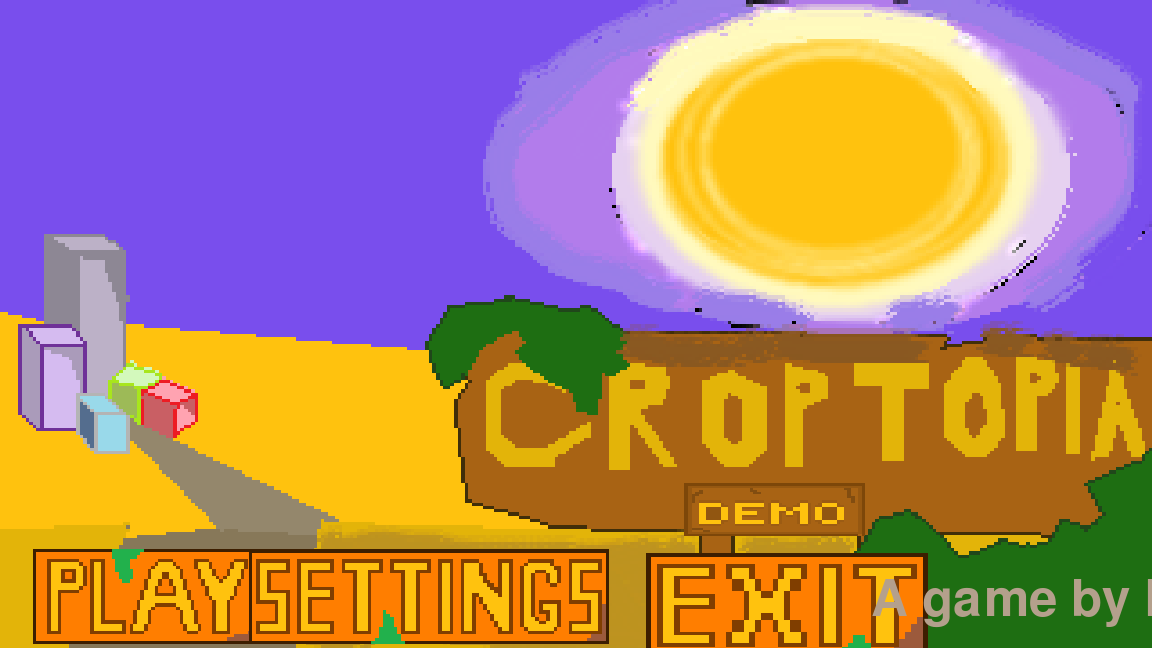
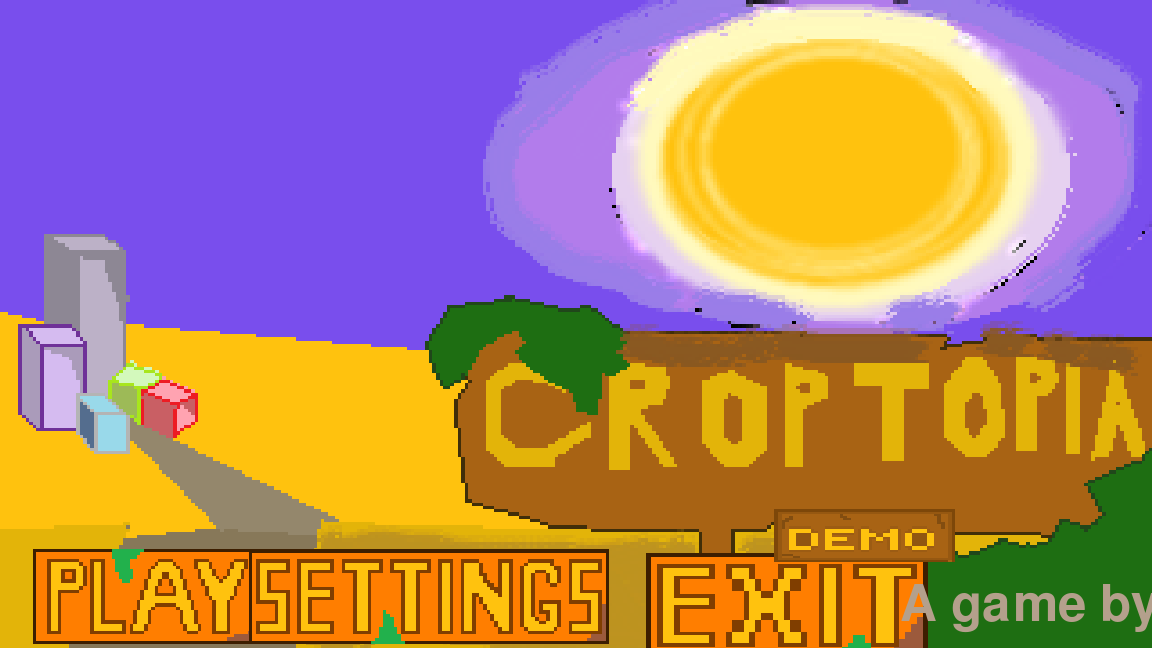
Adjust demo sprite and label positioning - use topleft anchor for sprite, move label to lower right

Changed region(s): [[0.5938, 0.7407, 1.0, 0.9877]]

diff --git a/croptopia_python/croptopia/scenes/main_menu_scene.py b/croptopia_python/croptopia/scenes/main_menu_scene.py
@@ -74,10 +74,12 @@ class MainMenuScene(Scene):
         
         # Text elements (positions derived from main.tscn, then rendered simply)
         self.label_text = "A game by DoubO"
-        self.label_pos = self._world_to_screen((506, 459))
         self.label_font_size = max(12, int(26 * 5.30584 * self.camera_zoom.y))
+        self.label_pos = (900, 580)  # Lower right area, away from buttons
         self.croptopia_text = "CROPTOPIA\nDEMO"
-        self.croptopia_pos = self._world_to_screen((343, 339))
+        # Demo sprite world pos (343, 339) -> screen via camera transform
+        demo_screen = self._world_to_screen((343, 339))
+        self.croptopia_pos = demo_screen  # Will be used as topleft for blitting
         self._menu_screenshot_saved = False
         self._menu_screenshot_path = os.path.abspath(
             os.path.join(self.engine.croptopia_root, "..", "screenshot_menu_surface.png")
@@ -141,7 +143,7 @@ class MainMenuScene(Scene):
                 max(1, int(deco_img.get_height() * scale_y)),
             )
             self.decoration_sprite = pygame.transform.scale(deco_img, target_size)
-            print(f"[MainMenuScene] ✓ Loaded decoration sprite")
+            print(f"[MainMenuScene] ✓ Loaded decoration sprite ({target_size[0]}x{target_size[1]})")
         
         # Load splash texture
         splash_path = os.path.join(self.engine.croptopia_root, "pixil-frame-0 - 2024-02-26T083114.993.png")
@@ -287,21 +289,13 @@ class MainMenuScene(Scene):
         
         # Render logo art and text elements from Godot
         try:
-            # CROPTOPIA DEMO art from main.tscn Sprite2D
+            # CROPTOPIA DEMO art from main.tscn Sprite2D (world pos 343, 339)
             if self.decoration_sprite:
-                deco_rect = self.decoration_sprite.get_rect(center=self.croptopia_pos)
+                # Blit at topleft position to match reference rendering
+                deco_rect = self.decoration_sprite.get_rect(topleft=self.croptopia_pos)
                 surface.blit(self.decoration_sprite, deco_rect)
-            else:
-                font_large = pygame.font.Font(None, 48)
-                croptopia_lines = self.croptopia_text.split('\n')
-                y_offset = self.croptopia_pos[1] - (len(croptopia_lines) * 24)
-                for i, line in enumerate(croptopia_lines):
-                    text_surface = font_large.render(line, True, (220, 180, 80))
-                    text_rect = text_surface.get_rect(center=(self.croptopia_pos[0], y_offset + i * 48))
-                    surface.blit(text_surface, text_rect)
             
-            # "A game by DoubO" text - positioned at world(506, 459) -> screen(871, 575)
-            # Keep the label in the lower-right area without moving the buttons up
+            # "A game by DoubO" text - at bottom right, away from buttons
             font_medium = pygame.font.Font(None, self.label_font_size)
             label_surface = font_medium.render(self.label_text, True, (180, 160, 140))
             label_rect = label_surface.get_rect(topleft=self.label_pos)
